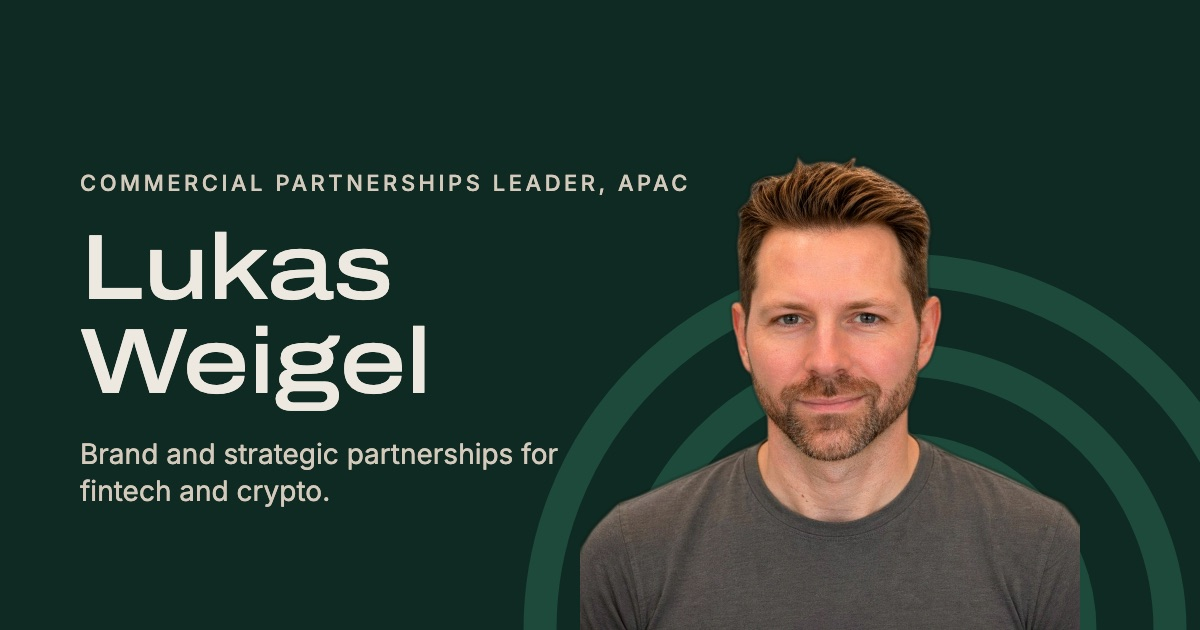
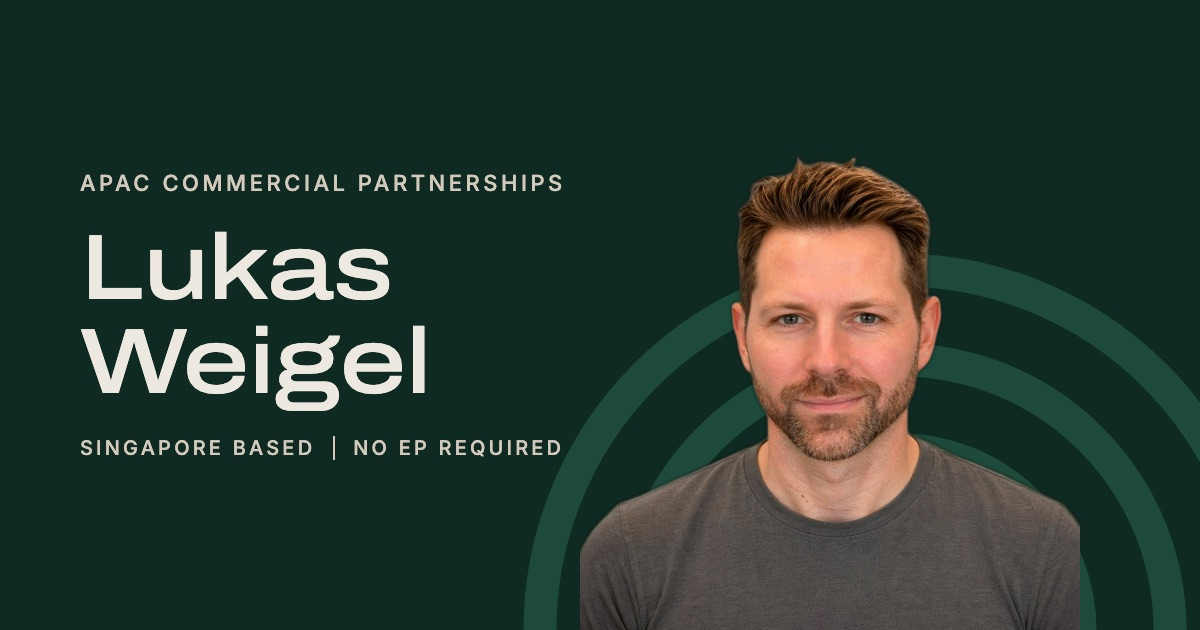
Lead with the card's wording
The page and link preview now open like the card front: "APAC Commercial Partnerships", name, then "Singapore based | No EP required". Core skills (the card back) moves up to follow the hero.

Changed region(s): [[0.0617, 0.6937, 0.4625, 0.8143], [0.0617, 0.2714, 0.5858, 0.3016]]

diff --git a/index.html b/index.html
@@ -3,10 +3,10 @@
 <head>
 <meta charset="utf-8">
 <meta name="viewport" content="width=device-width, initial-scale=1, viewport-fit=cover">
-<title>Lukas Weigel · Commercial partnerships</title>
-<meta name="description" content="Commercial partnerships leader, APAC. Eight years originating, structuring and negotiating brand partnerships. Moving in-house to brand and strategic partnerships at a fintech or crypto company.">
-<meta property="og:title" content="Lukas Weigel · Commercial partnerships leader, APAC">
-<meta property="og:description" content="Deals with Coinbase, NTT DATA and Cigna. Moving in-house to brand and strategic partnerships at a fintech or crypto company. Based in Singapore, no work pass needed.">
+<title>Lukas Weigel · APAC Commercial Partnerships</title>
+<meta name="description" content="APAC Commercial Partnerships. Singapore based, no EP required. Eight years originating, structuring and negotiating brand partnerships. Moving in-house to brand and strategic partnerships at a fintech or crypto company.">
+<meta property="og:title" content="Lukas Weigel · APAC Commercial Partnerships">
+<meta property="og:description" content="Singapore based, no EP required. Deals with Coinbase, NTT DATA and Cigna. Moving in-house to brand and strategic partnerships at a fintech or crypto company.">
 <meta property="og:image" content="https://lukas.wynarc.com/og.jpg">
 <meta property="og:url" content="https://lukas.wynarc.com/">
 <meta property="og:type" content="profile">
@@ -39,6 +39,9 @@ p { margin: 0; max-width: 64ch; }
 .hero .copy { display: grid; gap: 18px; padding-bottom: 52px; min-width: 0; }
 .hero .label { color: var(--sand); }
 .hero h1 { font-size: clamp(2.6rem, 8vw, 4.6rem); line-height: 1.02; letter-spacing: -0.01em; }
+/* Same line as under the name on the card: "Singapore based | No EP required" */
+.hero .sub { display: flex; flex-wrap: wrap; align-items: center; gap: 4px 12px; color: var(--sand); margin-top: -6px; }
+.hero .sub .bar { width: 1px; height: 1.1em; background: var(--sand); }
 .hero .lede { font-size: 1.1rem; color: var(--stone); max-width: 40ch; }
 .facts { display: flex; flex-wrap: wrap; gap: 8px; }
 .facts span { font-size: 0.8rem; border: 1px solid var(--pine); color: var(--sand); padding: 4px 10px; border-radius: 4px; }
@@ -107,11 +110,11 @@ footer { padding-block: 22px max(28px, env(safe-area-inset-bottom)); font-size: 
 <header class="hero">
   <div class="wrap">
     <div class="copy">
-      <div class="label">Commercial partnerships leader, APAC</div>
+      <div class="label">APAC Commercial Partnerships</div>
       <h1>Lukas Weigel</h1>
-      <p class="lede">Eight years originating, structuring and negotiating brand partnerships, selling into fintech, crypto, banking, cloud and consumer tech. Now moving in-house.</p>
+      <div class="label sub"><span>Singapore based</span><span class="bar" aria-hidden="true"></span><span>No EP required</span></div>
+      <p class="lede">Eight years originating, structuring and negotiating brand partnerships, selling into fintech, crypto, banking, cloud and consumer tech. Now moving <span class="nw">in-house</span>.</p>
       <div class="facts">
-        <span>Based in Singapore, no work pass needed</span>
         <span>English and German</span>
       </div>
       <div class="actions">
@@ -137,8 +140,18 @@ footer { padding-block: 22px max(28px, env(safe-area-inset-bottom)); font-size: 
 </header>
 
 <main>
+  <section class="wrap" id="skills">
+    <div class="head"><div class="rule"></div><div class="label">Core skills</div><h2>Where I add value</h2></div>
+    <div class="skills">
+      <div><h3>Strategic partnerships</h3><p><span>Origination</span><span>Deal structuring</span><span>Complex negotiation</span></p></div>
+      <div><h3>Market development</h3><p><span>APAC go-to-market</span><span>Market entry</span><span>Proposition design</span></p></div>
+      <div><h3>Commercial leadership</h3><p><span>P&amp;L ownership</span><span>Revenue growth</span><span>C-suite relationships</span></p></div>
+      <div><h3>Emerging technology</h3><p><span>Digital assets and Web3</span><span>Applied AI</span><span>AI-enabled workflows</span></p></div>
+    </div>
+  </section>
+
   <section class="wrap" id="deals">
-    <div class="head"><div class="rule"></div><div class="label">Selected deals</div><h2>What I've closed</h2></div>
+    <div class="head"><div class="label">Selected deals</div><h2>What I've closed</h2></div>
     <p class="intro">About 30 accounts across fintech, crypto, banking, cloud and consumer tech. A few of them:</p>
     <ul class="deals">
       <li><div><div class="label">Crypto</div><h3>Coinbase</h3></div><span class="val">$360K · 10x new users</span><p>Originated and closed an industry-first partnership with the Nike Melbourne Marathon, built around an NFT integration.</p></li>
@@ -150,16 +163,6 @@ footer { padding-block: 22px max(28px, env(safe-area-inset-bottom)); font-size: 
   </section>
 
   
-
-  <section class="wrap" id="skills">
-    <div class="head"><div class="label">Core skills</div><h2>Where I add value</h2></div>
-    <div class="skills">
-      <div><h3>Strategic partnerships</h3><p><span>Origination</span><span>Deal structuring</span><span>Complex negotiation</span></p></div>
-      <div><h3>Market development</h3><p><span>APAC go-to-market</span><span>Market entry</span><span>Proposition design</span></p></div>
-      <div><h3>Commercial leadership</h3><p><span>P&amp;L ownership</span><span>Revenue growth</span><span>C-suite relationships</span></p></div>
-      <div><h3>Emerging technology</h3><p><span>Digital assets and Web3</span><span>Applied AI</span><span>AI-enabled workflows</span></p></div>
-    </div>
-  </section>
 
   <section class="wrap" id="why">
     <div class="head"><div class="label">Why in-house</div><h2>What I'd bring to your partnerships team</h2></div>
